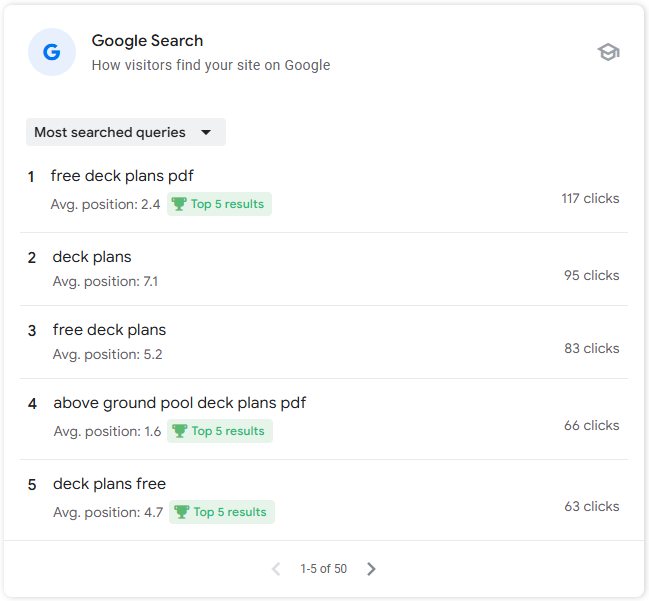
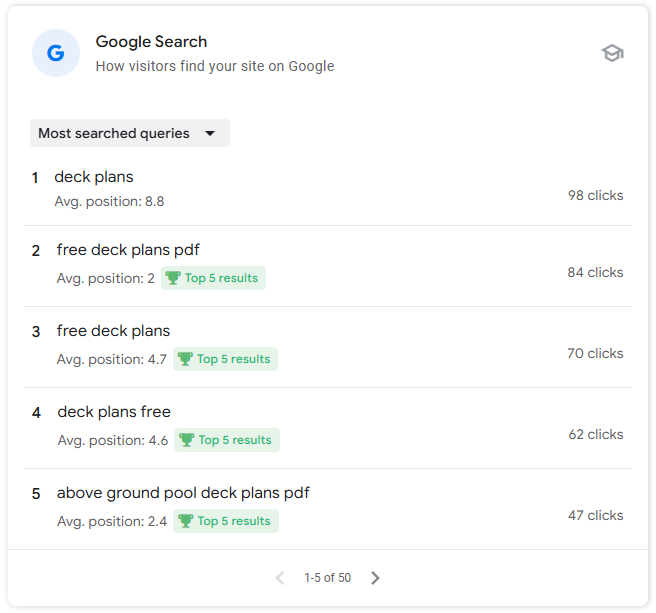
updates description, starts tops connectors addition

diff --git a/components/topsConnectors.vue b/components/topsConnectors.vue
@@ -1,0 +1,144 @@
+<template>
+    <div class="modaldiv">
+      <h2 class="mb-4">Project Lead: Design & Development for topsconnectors.com</h2>
+      <p class="mb-4">TopsConnectors.com was created at the request of Titan Building Products CEO Richard Bergman to serve as a dedicated showcase for the company’s new pergola hardware line—TOPS Connectors. I was tasked with designing and developing a branded sister site that would highlight the system’s modular features while directing traffic back to our e-commerce platform at <strong>store.decksgo.com</strong>. The goal was to establish a clean, product-focused experience that could grow alongside the expanding product line.</p>
+      <a class="btn-main" href="https://topsconnectors.com/" target="blank">Visit topsconnectors.com</a>
+
+
+        <div class="row align-items-start d-flex align-items-center mt-5 mb-5">
+            <div class="col-12 col-md-6">
+          <div>
+            <h2 class="mt-4 mt-md-0">Re-Design</h2>
+            <p>
+             As part of the redesign, I focused on improving the overall user experience by implementing a cleaner, more intuitive interface. One of the key enhancements was the addition of a <strong>secondary navigation system</strong> that allows users to easily filter deck plans by type—such as ground level, elevated, or multi-tier. <br><br>This improvement significantly reduced friction in the user journey and helped users quickly find the plans most relevant to their needs. I also overhauled the site’s visual style to better align with our brand, introducing a more modern, consistent look across typography, spacing, and component design.
+            </p>
+          </div>
+        </div>
+            <div class="col-12 col-md-6">
+            <ul class="nav nav-tabs" id="myTab" role="tablist">
+            <li class="nav-item" role="presentation">
+                <button class="nav-link active" id="home-tab" data-bs-toggle="tab" data-bs-target="#new" type="button" role="tab" aria-controls="home" aria-selected="true">New Home Page</button>
+            </li>
+            <li class="nav-item" role="presentation">
+                <button class="nav-link" id="profile-tab" data-bs-toggle="tab" data-bs-target="#old" type="button" role="tab" aria-controls="profile" aria-selected="false">Old Home Page</button>
+            </li>
+            </ul>
+            <div class="tab-content" id="myTabContent">
+            <div class="tab-pane fade show active mt-4" id="new" role="tabpanel" aria-labelledby="home-tab"><img src="assets\plans site screengrabs\new homepage.png" alt="new plans.decksgo.com homepage"></div>
+            <div class="tab-pane fade mt-4" id="old" role="tabpanel" aria-labelledby="profile-tab"><img src="assets\plans site screengrabs\old homepage.png" alt="old plans.decksgo.com homepage"></div>
+        </div>
+
+        </div>
+      </div>
+      
+      <div class="row align-items-start d-flex align-items-center mt-5 mb-5">
+        <div class="col-12 col-md-6">
+          <div>
+            <img src="\assets\plans site screengrabs\plans.decksgo wireframes.png" alt="wireframes">
+          </div>
+        </div>
+        <div class="col-12 col-md-6">
+          <p>To create the updated design, I used <strong>Adobe Illustrator</strong> and <strong>Photoshop</strong> to develop custom visual assets, including plan thumbnails, banners, and promotional graphics. I then mapped out the new layout and user flows in <strong>Figma</strong>, building wireframes that guided the redesign. Once the design was finalized, I implemented all changes using <strong>HTML</strong> and <strong>CSS</strong> directly within the theme’s page templates, ensuring a seamless transition from concept to live site. These enhancements not only modernized the aesthetic but also contributed to faster page performance and increased user engagement.</p>
+
+        </div>
+      </div>
+
+      <div class="row align-items-start d-flex align-items-center mt-5 mb-5">
+        <div class="col-12 col-md-6">
+          <div>
+            <h2>Development</h2>
+             <p>On the development side, one of the first issues I addressed was the lack of product visibility on the site. Despite high traffic, the page wasn’t promoting any of our storefront items. To solve this, I designed a set of promotional <strong>product cards</strong> and strategically placed them between existing <strong>deck plan cards</strong>. I used styled div elements interspersed throughout the layout, then wrote a <strong>JavaScript array</strong> to dynamically assign each card a <strong>background image</strong> and <strong>button link</strong> to relevant products. <br><br> To keep the experience fresh and prevent ad fatigue, I implemented <strong>randomized positioning</strong> for the cards on each page load. This lightweight solution allowed us to monetize traffic without compromising the user experience.</p>
+            
+          </div>
+        </div>
+        <div class="col-12 col-md-6">
+         <img src="\assets\plans site screengrabs\product cards.png">
+
+        </div>
+      </div>
+
+      <div class="row align-items-start d-flex align-items-center mt-5 mb-5">
+       
+       
+           <p>The second major development task involved migrating our email sign-up process from Keap to <strong>Attentive CRM</strong>. Since there is no native Gravity Forms integration with Attentive, I built a custom connection using their <strong>Subscribers API</strong>. This required mapping form fields to Attentive’s contact schema, developing a <strong>custom app within the CRM</strong>, and writing <strong>PHP functions</strong> to handle the data transfer securely.<br><br>I used <strong>AI-assisted coding</strong> to generate and validate the PHP logic inserted into the site’s <strong>functions.php</strong> file. Now, whenever a user submits a form to download a deck plan, their information is automatically passed to Attentive, creating new subscribers in real-time—streamlining our lead capture and follow-up efforts.</p>
+      </div>
+
+      <div class="row align-items-start d-flex align-items-center mt-5 mb-5">
+        <div class="col-12 col-md-8">
+          <div>
+            <h2>SEO Optimization</h2>
+            <p>
+              To maximize visibility and organic traffic, I conducted a targeted <strong>SEO optimization</strong> campaign focused on the high-intent keyword phrase <strong>“free deck plans PDF.”</strong> This included refining on-page elements such as <strong>meta titles</strong>, <strong>descriptions</strong>, and <strong>header tags</strong> to align with search intent, as well as optimizing <strong>image alt text</strong> and improving overall <strong>page load speed.</strong><br><br> 
+              I also implemented structured content and internal linking strategies to enhance crawlability and user engagement. As a result of these efforts, Plans.DecksGo.com now ranks consistently within the <strong>top 3 search results</strong> for this term—outperforming industry giants like Home Depot—and driving steady, qualified traffic to our email capture funnel.
+            </p>
+          </div>
+        </div>
+        <div class="col-12 col-md-4">
+          <img src="/assets/plans site screengrabs/performance.png" class="img-fluid" alt="Performance Metrics">
+        </div>
+      </div>
+      
+    </div>
+  </template>
+
+<script setup>
+
+</script>
+
+<style lang="css">
+
+    .nav-link {
+        color: white;
+    }
+    
+    .nav-link:hover {
+        color: white;
+    }
+
+    .modaldiv {
+        margin-left: 10%;
+        margin-right: 10%;
+        color: white;
+        font-size: 1.2rem;
+        line-height: 1.6;
+    }
+
+    img {
+        width: 100%;
+        border-radius: 20px;
+    }
+
+   
+
+    .video-wrapper {
+      position: relative;
+      width: 100%;
+      padding-bottom: 56.25%; /* 16:9 ratio */
+      height: 0;
+      overflow: hidden;
+      border-radius: 20px;
+    }
+
+    .video-wrapper iframe {
+      position: absolute;
+      top: 0;
+      left: 0;
+      width: 100%;
+      height: 100%;
+      border: none;
+    }
+
+
+    @media screen and (max-width: 768px) {
+        iframe {
+          width: 100%;
+          border-radius: 0px;
+        }
+
+        p {
+          padding-top: 20px;
+          padding-bottom: 20px;
+        }
+    
+    }
+</style>

diff --git a/pages/webdev.vue b/pages/webdev.vue
@@ -42,12 +42,19 @@
     import FreeDeckPlans from '~/components/freeDeckPlans.vue';
 import DFAFBAD from '/components/DFA-FB-AD.vue'
     import balusterCalculator from '/components/balusterCalculator.vue'
+import TopsConnectors from '~/components/topsConnectors.vue';
 
    const webdevs = [
+    //{
+      // title: "Head of Development & Design for topsconnectors.com",
+      // src: "assets/Tops_Site_Screengrab.png",
+      // description: `I designed and developed topsconnectors.com to showcase a new modular pergola hardware system for Titan Building Products. Using WordPress, JavaScript, and some PHP, I built a fast, responsive site that highlights the product’s flexibility with dynamic content and animated 3D renders. I created the full layout and branding in Figma, then collaborated with a 3D artist to bring the product story to life through immersive visuals and clear, conversion-focused design.`,
+      // component: TopsConnectors,
+    // },
     {
        title: "Deck Plans Distribution Site (Redesign, development & SEO Optimization)",
        src: "/assets/plans.decksgo.com.png",
-       description: `This is a simple contact book, web application I created. The website was created using Vue 3, Vite, Vue Router and Bootstrap. The site allows the user to create contacts and edit existing ones. In addition, you can search contacts, filter alphabetically by last name or first name and delete existing contacts. All contact data is saved to a user's local storage so when the page is reloaded, contacts remain on the page.`,
+       description: `I led the full redesign and development of Plans.DecksGo.com, a high-performing lead-generation microsite offering free downloadable deck plans. My work included a modern UX overhaul, visual asset creation, and custom app development to connect Gravity Forms to Attentive CRM via API and AI-assisted PHP. A focused SEO strategy helped the site achieve a top 3 Google ranking for “free deck plans PDF,” outperforming major competitors like Home Depot and driving consistent, high-quality leads.`,
        component: FreeDeckPlans,
      },
     {

diff --git a/pages/index.vue b/pages/index.vue
@@ -6,7 +6,7 @@
         <img class="avatar" alt="avatar" src="/assets/profilepic3.jpg"/>
         <div class="intro-text">
           <p>
-            My name is Tanner Green, and I am a web developer, videographer, and graphic designer. This site showcases projects that reflect the skills I’ve developed throughout my professional and academic career. I coded this portfolio from scratch using nuxt.js, html, css, javascript, and bootstrap. Feel free to explore using the buttons below.
+            My name is Tanner Green, and I am a web developer, videographer, and graphic designer. This site showcases projects that reflect the skills I’ve developed throughout my professional and academic career. I coded this portfolio using nuxt.js, vue.js, html, css, javascript, and bootstrap. Feel free to explore using the buttons below.
           </p>
         </div>
         <div class="pagebtns">
